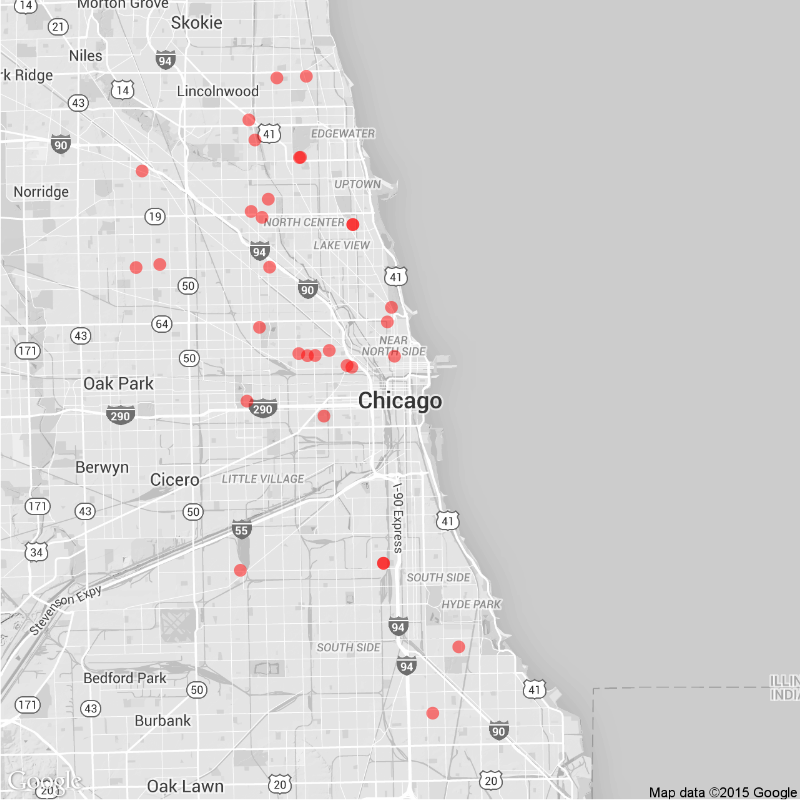
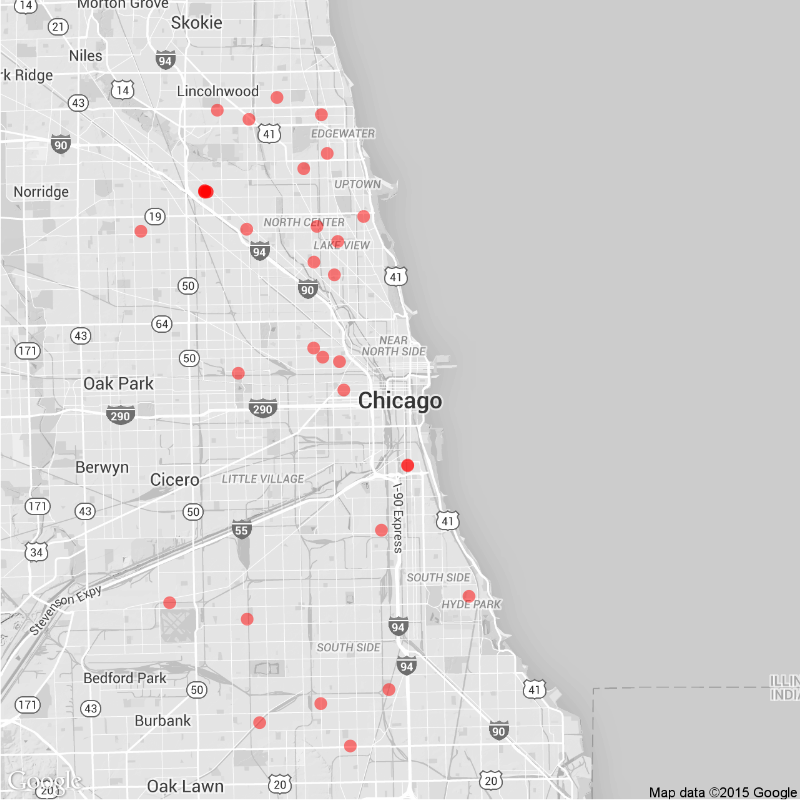
Daily Maps

diff --git a/daily.md b/daily.md
@@ -15,22 +15,22 @@ tags: Chicago NYC weekly daily rats
 
 ### Daily
 
-Yesterday (July 04), there were 32 calls to Chicago's 311 line about rats.
+Yesterday (July 05), there were 36 calls to Chicago's 311 line about rats.
 ![Chicago rat calls to 311 weekly map]({{ site.cityimages }}/daily/Chicago_Rat_Map_Daily.png)
 
 ### Weekly
-Between June 28 and July 04, there were 1009 calls to Chicago's 311 line about rats. The average number of weekly calls for this time of year is 863.
+Between June 29 and July 05, there were 995 calls to Chicago's 311 line about rats. The average number of weekly calls for this time of year is 863.
 ![Chicago rat calls to 311 weekly map]({{ site.cityimages }}/daily/Chicago_Rat_Map_Weekly.png)
 ***
 # New York City <a id="nyc"><a>
 
 ### Daily
 
-Yesterday (July 04), there were 0 calls to New York City's 311 line about rats.
+Yesterday (July 05), there were 0 calls to New York City's 311 line about rats.
 ![NYC rat calls to 311 weekly map]({{ site.cityimages }}/daily/NYC_Rat_Map_Daily.png)
 
 ### Weekly
-Between June 28 and July 04, there were 0 calls to New York City's 311 line about rats. The average number of weekly calls for this time of year is 280.
+Between June 29 and July 05, there were 0 calls to New York City's 311 line about rats. The average number of weekly calls for this time of year is 280.
 ![NYC rat calls to 311 weekly map]({{ site.cityimages }}/daily/NYC_Rat_Map_Weekly.png)
 
 Each red dot represents one call about a rat seen in that location. The dots are transparent, so multiple calls from one location will be seen as a solid dot. The usual caveats apply: more calls do not necessarily mean that there are more rats in that location than other parts of the city. A cluster of dots could indicate that one resident is unusually vocal about rodents in his or her neighborhood. Also, more densely populated neighborhoods tend to make more calls to 311.
